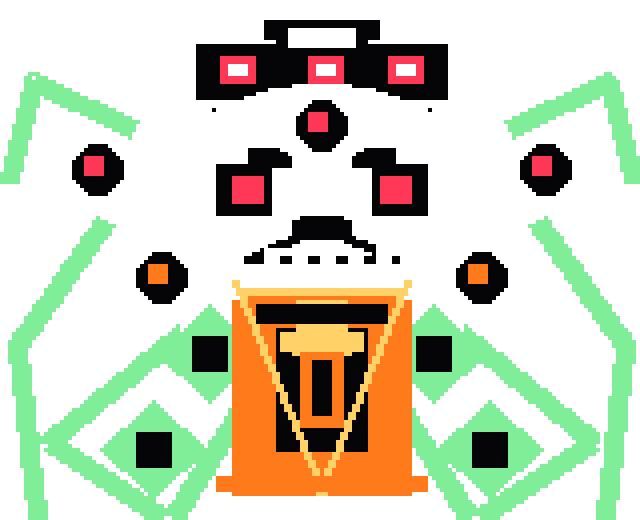
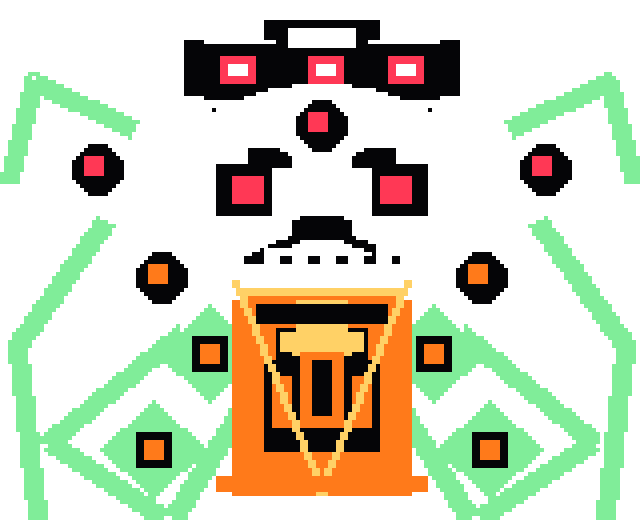
Add Omega petal fan pressure

diff --git a/script.js b/script.js
@@ -1531,6 +1531,29 @@ function omegaPattern(dt) {
       spawn("pellet", { x: arena.x + arena.w / 2, y: arena.y + arena.h * 0.44, vx: Math.cos(a) * 148, vy: Math.sin(a) * 148, r: 7, angle: a, spin: -2.1 });
     }
   }
+  if (state.wave === 0 && every("omega-petal-fan", 1.08 - progress * 0.08, dt)) {
+    const index = sequenceIndex(1.08 - progress * 0.08);
+    const safe = index % 7;
+    const centerX = arena.x + arena.w / 2;
+    for (let i = 0; i < 7; i++) {
+      if (i === safe || i === (safe + 1) % 7) continue;
+      const lane = 0.12 + i * 0.13;
+      const fromTop = index % 2 === 0;
+      const x = arena.x + arena.w * lane;
+      const y = fromTop ? arena.y - 24 : arena.y + arena.h + 24;
+      const toward = Math.atan2(arena.y + arena.h * 0.48 - y, centerX - x);
+      spawn("petal", {
+        x,
+        y,
+        vx: Math.cos(toward) * (164 + progress * 34),
+        vy: Math.sin(toward) * (164 + progress * 34),
+        r: 11,
+        angle: toward,
+        spin: fromTop ? 2.4 : -2.4,
+        delay: i * 0.035,
+      });
+    }
+  }
   if (state.wave >= 1) {
     const vineInterval = 0.92 - progress * 0.14;
     const vine = sequencedEvery("omega-vine", vineInterval, dt, ["v25", "h38", "v75", "h62", "v50", "h50"]);

diff --git a/tools/generate_boss_portraits.py b/tools/generate_boss_portraits.py
@@ -382,6 +382,10 @@ def omega():
     rect(d, (72, 7, 88, 11), WHITE)
     rect(d, (48, 25, 112, 31), WHITE)
     rect(d, (53, 27, 107, 31), BLACK)
+    rect(d, (42, 7, 50, 26), WHITE)
+    rect(d, (110, 7, 118, 26), WHITE)
+    rect(d, (46, 10, 50, 23), BLACK)
+    rect(d, (110, 10, 114, 23), BLACK)
     draw_omega_face(d, 80, 49)
     rect(d, (62, 37, 72, 41), BLACK)
     rect(d, (88, 37, 98, 41), BLACK)
@@ -403,6 +407,7 @@ def omega():
     for x, y in [(52, 88), (108, 88), (38, 112), (122, 112)]:
         poly(d, [(x, y - 12), (x + 13, y), (x, y + 12), (x - 13, y)], GREEN)
         rect(d, (x - 4, y - 4, x + 4, y + 4), BLACK)
+        rect(d, (x - 2, y - 2, x + 2, y + 2), ORANGE)
     rect(d, (58, 70, 102, 123), ORANGE)
     rect(d, (54, 66, 106, 74), WHITE)
     rect(d, (60, 74, 100, 82), ORANGE)
@@ -413,6 +418,10 @@ def omega():
     rect(d, (70, 83, 90, 87), YELLOW)
     rect(d, (75, 88, 85, 106), ORANGE)
     rect(d, (78, 90, 82, 103), BLACK)
+    rect(d, (66, 90, 74, 112), BLACK)
+    rect(d, (86, 90, 94, 112), BLACK)
+    rect(d, (68, 94, 72, 106), ORANGE)
+    rect(d, (88, 94, 92, 106), ORANGE)
     line(d, [(61, 72), (99, 72)], YELLOW, 2)
     line(d, [(58, 70), (80, 123), (102, 70)], YELLOW, 2)
     line(d, [(54, 120), (106, 120)], ORANGE, 4)

diff --git a/README.md b/README.md
@@ -65,6 +65,7 @@ Asgore Fire Rings now includes an extra original side fire sweep with a planned 
 Sans Bone Shuffle now adds an original low/high bone-wall layer with safe columns, giving the opener a more recognizable Sans-style practice rhythm without copying an exact attack.
 Sans and Disbelief Papyrus also have sharper jacket/scarf/chest pixel blocks, which carry into the Bad Time Trio thumbnail.
 Mettaton now has stronger hair, face, and chest-core pixels, and Ratings Rush adds a scripted ratings-lane burst with safe columns and pellet pressure for a showier yellow-heart practice feel.
+Omega Flowey now has clearer monitor sides, vine nodes, and body-core pixels, while Petal Burst adds an original petal-fan layer with skipped lanes for safer screen-filling pressure.
 Dynamic wave ramps use staged opener/build/finale intensity, so attacks start readable and tighten toward the end instead of changing at one flat rate.
 Weapon warnings and hazard telegraphs also follow that intensity curve, giving longer reads at the start of a turn and quicker warnings during the finale.
 Pattern sequencing now advances with the tuned spawn rate, so faster waves use the intended ordered reads instead of repeating lanes; Sans, Undyne, Undying, Asgore, Omega, Asriel, Mettaton, and Disbelief patterns have tighter speeds and more source-style safe gaps.
